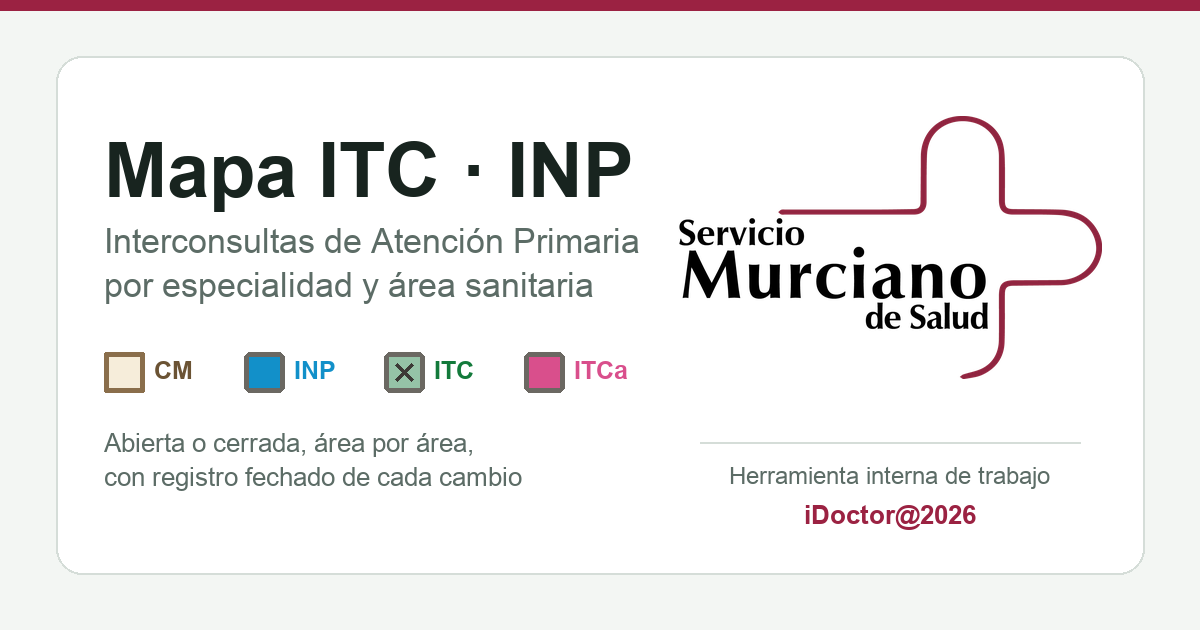
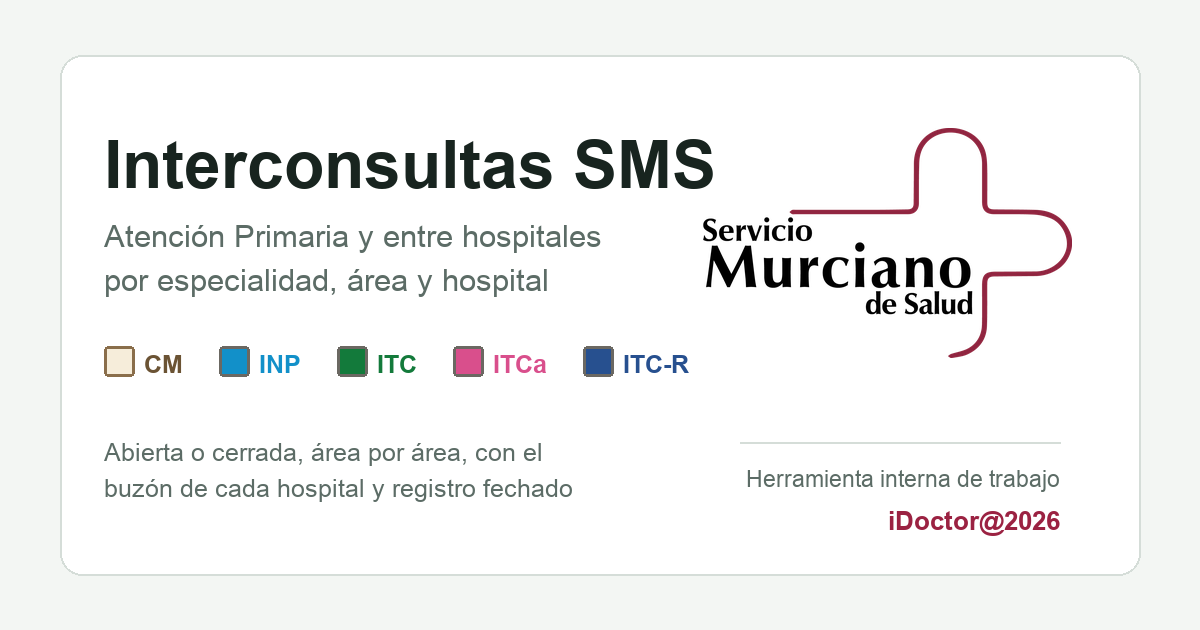
El cuadro pasa a llamarse Interconsultas SMS
Ahora abarca Primaria y hospital, asi que cambia el titulo de la pagina, la
cabecera, la pantalla de acceso, el pie, el informe, las etiquetas al compartir
y el README. El subtitulo sigue al ambito: extracto OMI-AP en Primaria y
archivo ITC-R en hospital. Nueva imagen de vista previa con el nombre nuevo y
marca de version nueva, porque WhatsApp la cachea por URL.

diff --git a/index.html b/index.html
@@ -4,30 +4,30 @@
 <meta charset="utf-8">
 <meta name="viewport" content="width=device-width,initial-scale=1">
 <meta name="robots" content="noindex">
-<meta name="description" content="Mapa transversal de las interconsultas de Atención Primaria del Servicio Murciano de Salud: CM, INP, ITC e ITCa abiertas o cerradas en cada una de las nueve áreas, los buzones INP de cada hospital y a dónde llega cada INP, con registro fechado de cada cambio. Herramienta interna de trabajo, protegida con contraseña.">
+<meta name="description" content="Cuadro de las interconsultas del Servicio Murciano de Salud: en Atención Primaria, CM, INP, ITC e ITCa de cada especialidad en las nueve áreas y los buzones INP de cada hospital; entre hospitales, las ITC-R y su paso al Gestor de Peticiones. Con registro fechado de cada cambio. Herramienta interna de trabajo, protegida con contraseña.">
 <link rel="canonical" href="https://idoctor2000.github.io/mapa-itc-inp/">
 <meta property="og:type" content="website">
 <meta property="og:locale" content="es_ES">
 <meta property="og:site_name" content="Servicio Murciano de Salud · Atención Primaria">
-<meta property="og:title" content="Mapa ITC · INP · Interconsultas de Atención Primaria">
-<meta property="og:description" content="Mapa transversal de las interconsultas de Atención Primaria del Servicio Murciano de Salud: CM, INP, ITC e ITCa abiertas o cerradas en cada una de las nueve áreas, los buzones INP de cada hospital y a dónde llega cada INP, con registro fechado de cada cambio. Herramienta interna de trabajo, protegida con contraseña.">
+<meta property="og:title" content="Interconsultas SMS · Atención Primaria y entre hospitales">
+<meta property="og:description" content="Cuadro de las interconsultas del Servicio Murciano de Salud: en Atención Primaria, CM, INP, ITC e ITCa de cada especialidad en las nueve áreas y los buzones INP de cada hospital; entre hospitales, las ITC-R y su paso al Gestor de Peticiones. Con registro fechado de cada cambio. Herramienta interna de trabajo, protegida con contraseña.">
 <meta property="og:url" content="https://idoctor2000.github.io/mapa-itc-inp/">
-<meta property="og:image" content="https://idoctor2000.github.io/mapa-itc-inp/preview.png?v=2026090304">
-<meta property="og:image:secure_url" content="https://idoctor2000.github.io/mapa-itc-inp/preview.png?v=2026090304">
+<meta property="og:image" content="https://idoctor2000.github.io/mapa-itc-inp/preview.png?v=2026100201">
+<meta property="og:image:secure_url" content="https://idoctor2000.github.io/mapa-itc-inp/preview.png?v=2026100201">
 <meta property="og:image:type" content="image/png">
 <meta property="og:image:width" content="1200">
 <meta property="og:image:height" content="630">
-<meta property="og:image:alt" content="Mapa ITC · INP del Servicio Murciano de Salud">
+<meta property="og:image:alt" content="Interconsultas SMS · Servicio Murciano de Salud">
 <meta name="twitter:card" content="summary_large_image">
-<meta name="twitter:title" content="Mapa ITC · INP · Interconsultas de Atención Primaria">
-<meta name="twitter:description" content="Mapa transversal de las interconsultas de Atención Primaria del Servicio Murciano de Salud: CM, INP, ITC e ITCa abiertas o cerradas en cada una de las nueve áreas, los buzones INP de cada hospital y a dónde llega cada INP, con registro fechado de cada cambio. Herramienta interna de trabajo, protegida con contraseña.">
-<meta name="twitter:image" content="https://idoctor2000.github.io/mapa-itc-inp/preview.png?v=2026090304">
+<meta name="twitter:title" content="Interconsultas SMS · Atención Primaria y entre hospitales">
+<meta name="twitter:description" content="Cuadro de las interconsultas del Servicio Murciano de Salud: en Atención Primaria, CM, INP, ITC e ITCa de cada especialidad en las nueve áreas y los buzones INP de cada hospital; entre hospitales, las ITC-R y su paso al Gestor de Peticiones. Con registro fechado de cada cambio. Herramienta interna de trabajo, protegida con contraseña.">
+<meta name="twitter:image" content="https://idoctor2000.github.io/mapa-itc-inp/preview.png?v=2026100201">
 <meta name="theme-color" content="#9B2242">
-<meta name="apple-mobile-web-app-title" content="Mapa ITC · INP">
+<meta name="apple-mobile-web-app-title" content="Interconsultas SMS">
 <link rel="icon" type="image/png" sizes="32x32" href="icon-32.png">
 <link rel="icon" type="image/png" sizes="64x64" href="icon-64.png">
 <link rel="apple-touch-icon" sizes="180x180" href="icon-180.png">
-<title>Mapa ITC · INP Atención Primaria</title>
+<title>Interconsultas SMS</title>
 <link rel="stylesheet" href="https://fonts.googleapis.com/css2?family=IBM+Plex+Sans:wght@400;500;600;700&family=IBM+Plex+Sans+Condensed:wght@500;600;700&family=IBM+Plex+Mono:wght@400;500&display=swap">
 <style>
 :root{
@@ -428,8 +428,8 @@ form.edit .full{grid-column:1/-1}
 
 <div id="gate">
   <form class="gate-card" id="gateForm">
-    <h1>Mapa ITC · INP</h1>
-    <p>Interconsultas de Atención Primaria del Servicio Murciano de Salud. Introduce la contraseña para ver y editar el mapa.</p>
+    <h1>Interconsultas SMS</h1>
+    <p>Interconsultas del Servicio Murciano de Salud, de Atención Primaria y entre hospitales. Introduce la contraseña para ver y editar el cuadro.</p>
     <input type="password" id="gatePass" placeholder="Contraseña" autocomplete="current-password" required autofocus>
     <label class="chk"><input type="checkbox" id="gateRemember" checked> Recordar en este equipo</label>
     <div class="err" id="gateErr"></div>
@@ -444,8 +444,8 @@ form.edit .full{grid-column:1/-1}
     <button class="plegar" id="btnCab" aria-expanded="true"
             title="Ocultar los indicadores y los filtros para ver más filas"><span>▾</span></button>
     <div class="brand">
-      <h1>Mapa ITC · INP</h1>
-      <span class="sub">Atención Primaria · SMS · extracto OMI-AP del <span id="fechaBase"></span></span>
+      <h1>Interconsultas SMS</h1>
+      <span class="sub" id="sub">Atención Primaria · extracto OMI-AP del <span id="fechaBase"></span></span>
     </div>
     <div class="amb" role="group" aria-label="Ámbito">
       <button type="button" data-amb="ap" aria-pressed="true">Primaria</button>
@@ -633,7 +633,7 @@ form.edit .full{grid-column:1/-1}
 </section>
 
 <footer class="pie">
-  <span>Mapa ITC · INP · Interconsultas de Atención Primaria · Servicio Murciano de Salud</span>
+  <span>Interconsultas SMS · Atención Primaria y entre hospitales · Servicio Murciano de Salud</span>
   <span class="firma">iDoctor@2026</span>
 </footer>
 
@@ -2494,7 +2494,7 @@ function informeHTML() {
     });
   });
   const pie = as.map(a => `<td class="n">${rows.filter(c => cumple(c.k, a)).length}</td>`).join('');
-  const titulo = escasa ? 'Cita mostrador con uso escaso o nulo' : 'Mapa ITC · INP';
+  const titulo = escasa ? 'Cita mostrador con uso escaso o nulo' : 'Interconsultas SMS';
   const periodo = USOINFO ? `uso de la cita mostrador del ${fmt(USOINFO.desde)} al ${fmt(USOINFO.hasta)}` : '';
   const resumen = escasa
     ? `<b>${total}</b> casillas con cita mostrador abierta y menos de 10 interconsultas en 2026, en <b>${rows.length}</b> especialidades: <b>${ceros}</b> sin ningún uso y <b>${total - ceros}</b> con entre 1 y 9.`
@@ -2528,7 +2528,7 @@ thead{display:table-header-group} tr{break-inside:avoid}
 <tbody>${cuerpo || `<tr><td colspan="${as.length + 2}">Ninguna especialidad coincide con el filtro.</td></tr>`}</tbody>
 <tfoot><tr><th style="text-align:left">Casillas por área</th>${pie}<td class="n">${total}</td></tr></tfoot></table>
 <p class="ley">${esc(leyenda)}</p>
-<div class="firma">Mapa ITC · INP · iDoctor@2026</div>
+<div class="firma">Interconsultas SMS · iDoctor@2026</div>
 </body></html>`;
 }
 $('#expInforme').onclick = () => offer(`informe-${F.modo === 'cm-escasa' ? 'cita-mostrador-escasa' : 'mapa-itc-inp'}-${today()}.html`, informeHTML(), 'text/html;charset=utf-8');
@@ -2649,6 +2649,8 @@ function verAmbito(x) {
   document.body.dataset.amb = x;
   document.querySelectorAll('.amb button').forEach(b => b.setAttribute('aria-pressed', String(b.dataset.amb === x)));
   try { localStorage.setItem('sms-itc-ambito', x); } catch (e) {}
+  $('#sub').innerHTML = x === 'ho' && ITCR ? `Entre hospitales · ITC-R · archivo del ${fmt(ITCR.fecha)}`
+    : `Atención Primaria · extracto OMI-AP del ${fmt(FECHA_BASE)}`;
   const propia = { matriz: 'ap', buzones: 'ap', itcr: 'ho' }[vista];
   if (propia && propia !== x) verVista(x === 'ho' ? 'itcr' : 'matriz');
 }

diff --git a/README.md b/README.md
@@ -1,21 +1,17 @@
-# Mapa ITC · INP · Atención Primaria (SMS)
+# Interconsultas SMS
 
-Matriz interactiva de interconsultas de Atención Primaria por especialidad y área sanitaria del Servicio Murciano de Salud.
+Cuadro de las interconsultas del Servicio Murciano de Salud. Dos ámbitos:
 
-Cada casilla muestra tres cuadrados, uno por modalidad:
+**Atención Primaria.** Matriz por especialidad y área sanitaria con cuatro modalidades por casilla: **CM** (cita mostrador, la vía analógica), **INP** (no presencial), **ITC** (presencial por gestor) e **ITCa** (ITC abierta). El relleno identifica la modalidad y el aspa el estado; la CM se tiñe según su uso en 2026. Una segunda vista, **Buzones INP**, cruza lo que ofrece la primaria con el buzón de cada hospital en Selene y con el destino que marca el COMPAS.
 
-| Modalidad | Borde | Significado |
-|---|---|---|
-| **INP** | azul | Interconsulta no presencial (INPAP) |
-| **ITC** | verde | Interconsulta presencial gestionada |
-| **INPc** | morado | INP Citable, también llamada ITC abierta |
+**Hospital.** Vista **ITC-R**, las interconsultas entre hospitales, con sus dos vías: la actual entre Selenes y la nueva por el Gestor de Peticiones, el hospital que atiende, la llamada telefónica obligatoria y la cita en destino.
 
-Relleno verde = abierta. Rojo con aspa = cerrada. Al pulsar un cuadrado se abre o cierra la modalidad y se registra fecha, usuario y observaciones.
+Al pulsar una casilla se cambia su estado y se registra fecha, usuario y observaciones. Cada especialidad y cada prueba llevan su resumen, su ficha y su circuito dibujado.
 
 ## Estructura
 
 - Rama `main`: `index.html`, la aplicación completa. No necesita servidor.
-- Rama `datos`: `estado.json`, el estado compartido (cambios, fechas y reclasificaciones), cifrado con la contraseña de acceso.
+- Rama `datos`: `estado.json`, el estado compartido (cambios, fechas, notas y reclasificaciones), cifrado con la contraseña de acceso.
 
 ## Publicar cambios para todo el equipo
 
